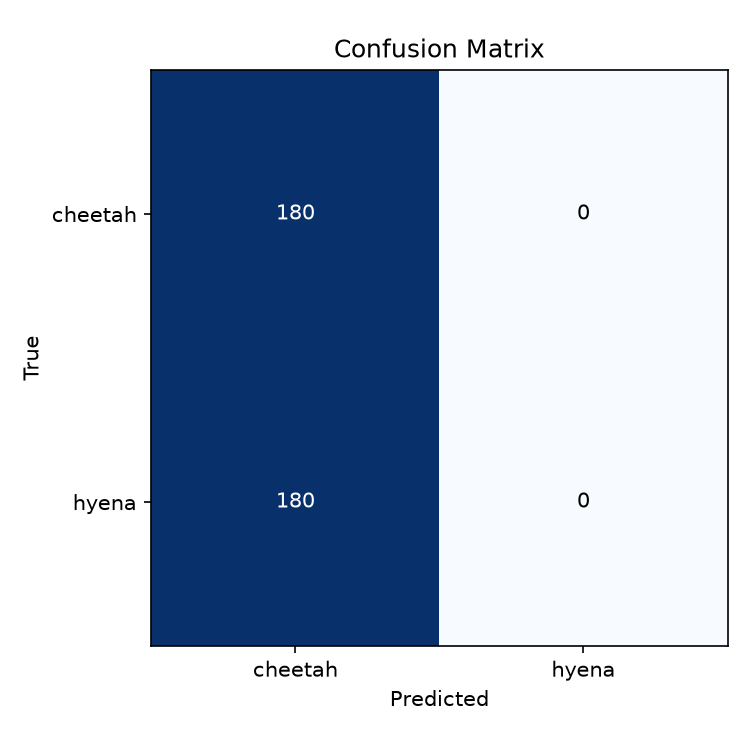
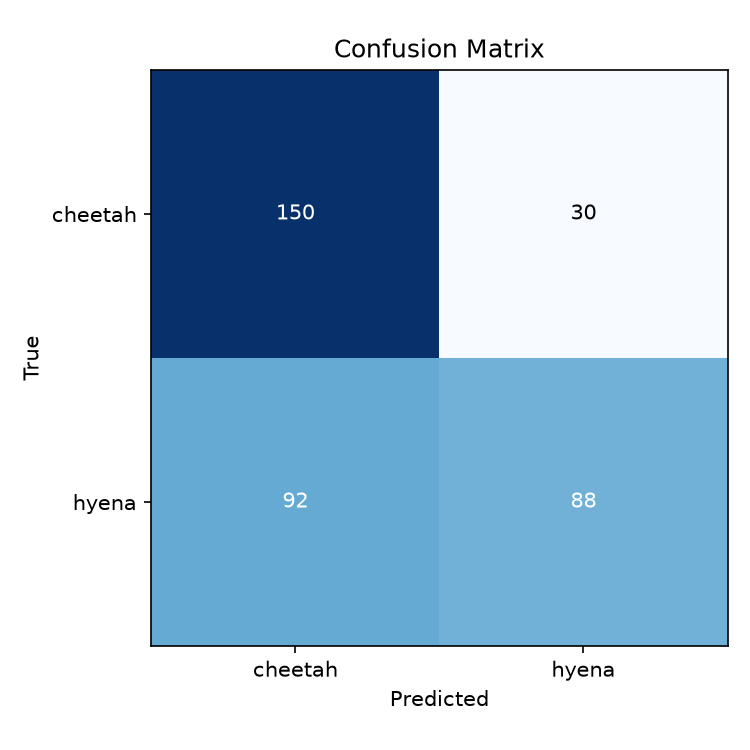
VGG=SMALL

Changed region(s): [[0.184, 0.46, 0.9813, 0.8587], [0.7667, 0.276, 0.7973, 0.3067], [0.368, 0.276, 0.3987, 0.3067]]

diff --git a/Lab08 DCNN/vgg_model.py b/Lab08 DCNN/vgg_model.py
@@ -11,11 +11,10 @@ VGG16 = [(64, 2), (128, 2), (256, 3), (512, 3), (512, 3)]
 VGG_SMALL = [(32, 2), (64, 2), (128, 3), (256, 3)]
 
 def vgg_block(model, filters, n_conv):
-    """n_conv x (Conv3x3 -> BatchNorm) then halve the resolution."""
 
     for _ in range(n_conv):
         model.add(layers.Conv2D(filters, 3, padding="same", activation="relu"))
-        model.add(layers.BatchNormalization())
+        model.add(layers.BatchNormalization(momentum=0.9))
 
     model.add(layers.MaxPooling2D(2))
 
@@ -37,9 +36,9 @@ def build_model(input_shape, num_classes, blocks=VGG16):
         vgg_block(model, filters, n_conv)
 
     model.add(layers.GlobalAveragePooling2D())
-    model.add(layers.Dense(512, activation="relu"))
-    model.add(layers.Dropout(0.5))
     model.add(layers.Dense(256, activation="relu"))
+    model.add(layers.Dropout(0.5))
+    model.add(layers.Dense(128, activation="relu"))
     model.add(layers.Dropout(0.5))
 
     model.add(layers.Dense(
@@ -65,7 +64,7 @@ def train_model(X_train, y_train, X_val, y_val, num_classes,
 
     callbacks = [
         keras.callbacks.EarlyStopping(
-            monitor="val_loss", patience=8, restore_best_weights=True
+            monitor="val_loss", patience=12, restore_best_weights=True
         ),
         keras.callbacks.ReduceLROnPlateau(
             monitor="val_loss", factor=0.5, patience=4, min_lr=1e-6

diff --git a/Lab08 DCNN/main.py b/Lab08 DCNN/main.py
@@ -16,13 +16,13 @@ OUTPUT_DIR = os.path.join(BASE_DIR, "outputs")
 
 IMG_SIZE = 50
 TEST_SIZE = 0.2
-VAL_SIZE = 0.2
+VAL_SIZE = 0.1
 MAX_PER_CLASS = 3000   # None = use all images
-EPOCHS = 20
-BATCH_SIZE = 64
+EPOCHS = 50
+BATCH_SIZE = 32
 
 # VGG16 = full 13-conv layout. VGG_SMALL = lighter, for CPU training.
-BLOCKS = VGG16
+BLOCKS = VGG_SMALL
 
 
 def main():
